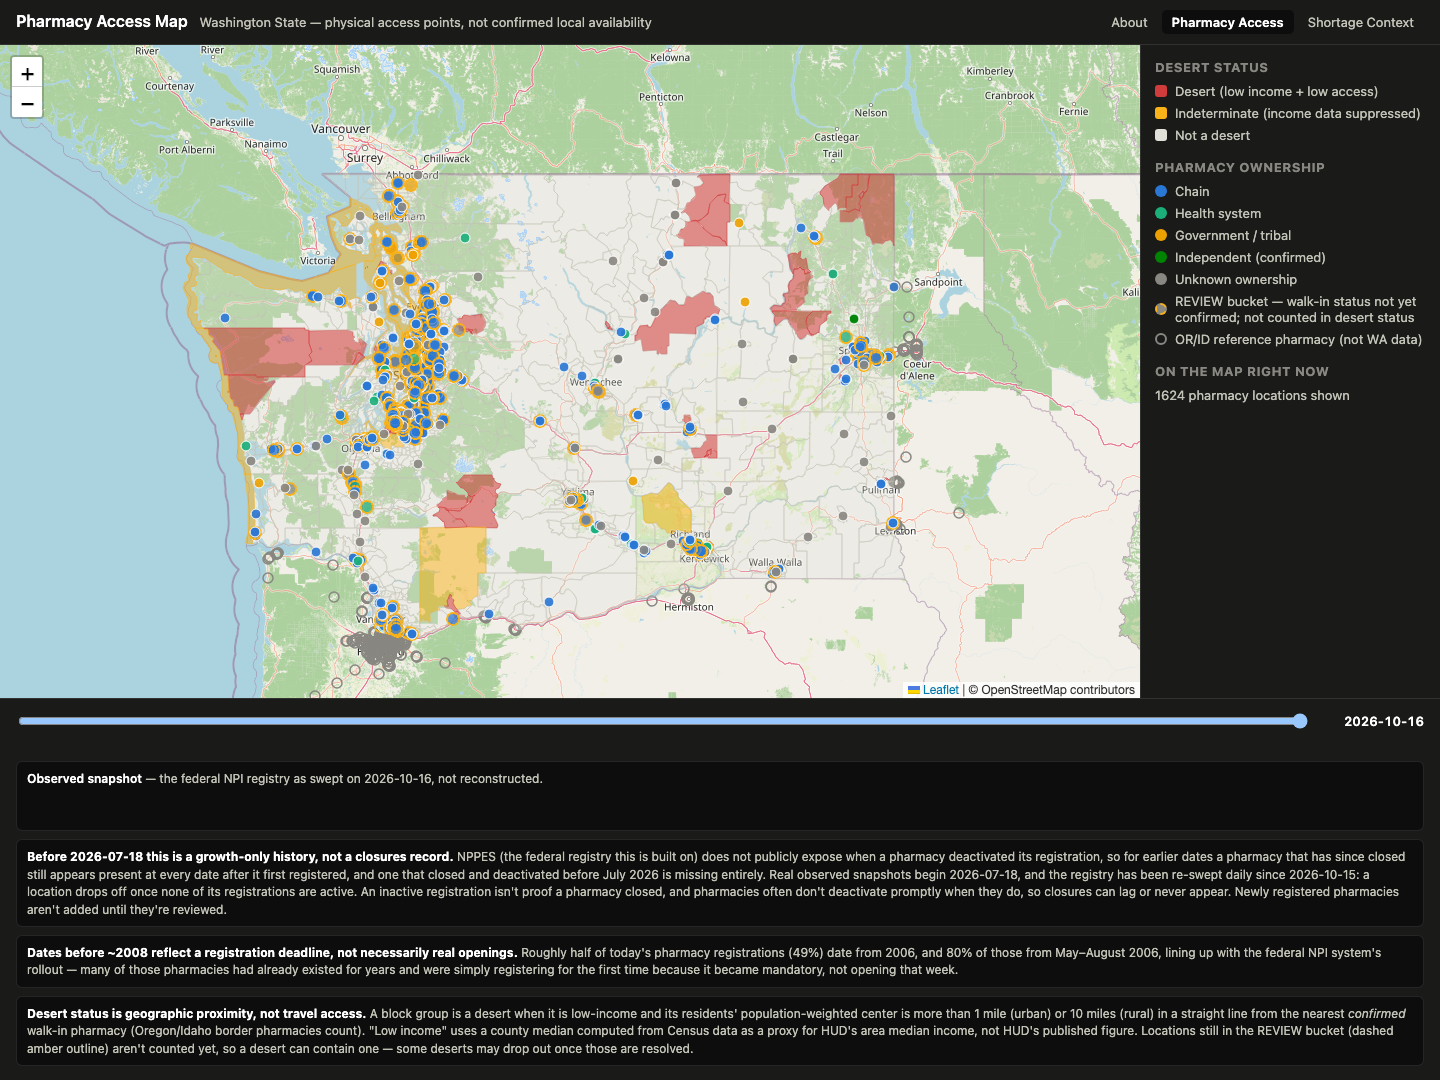
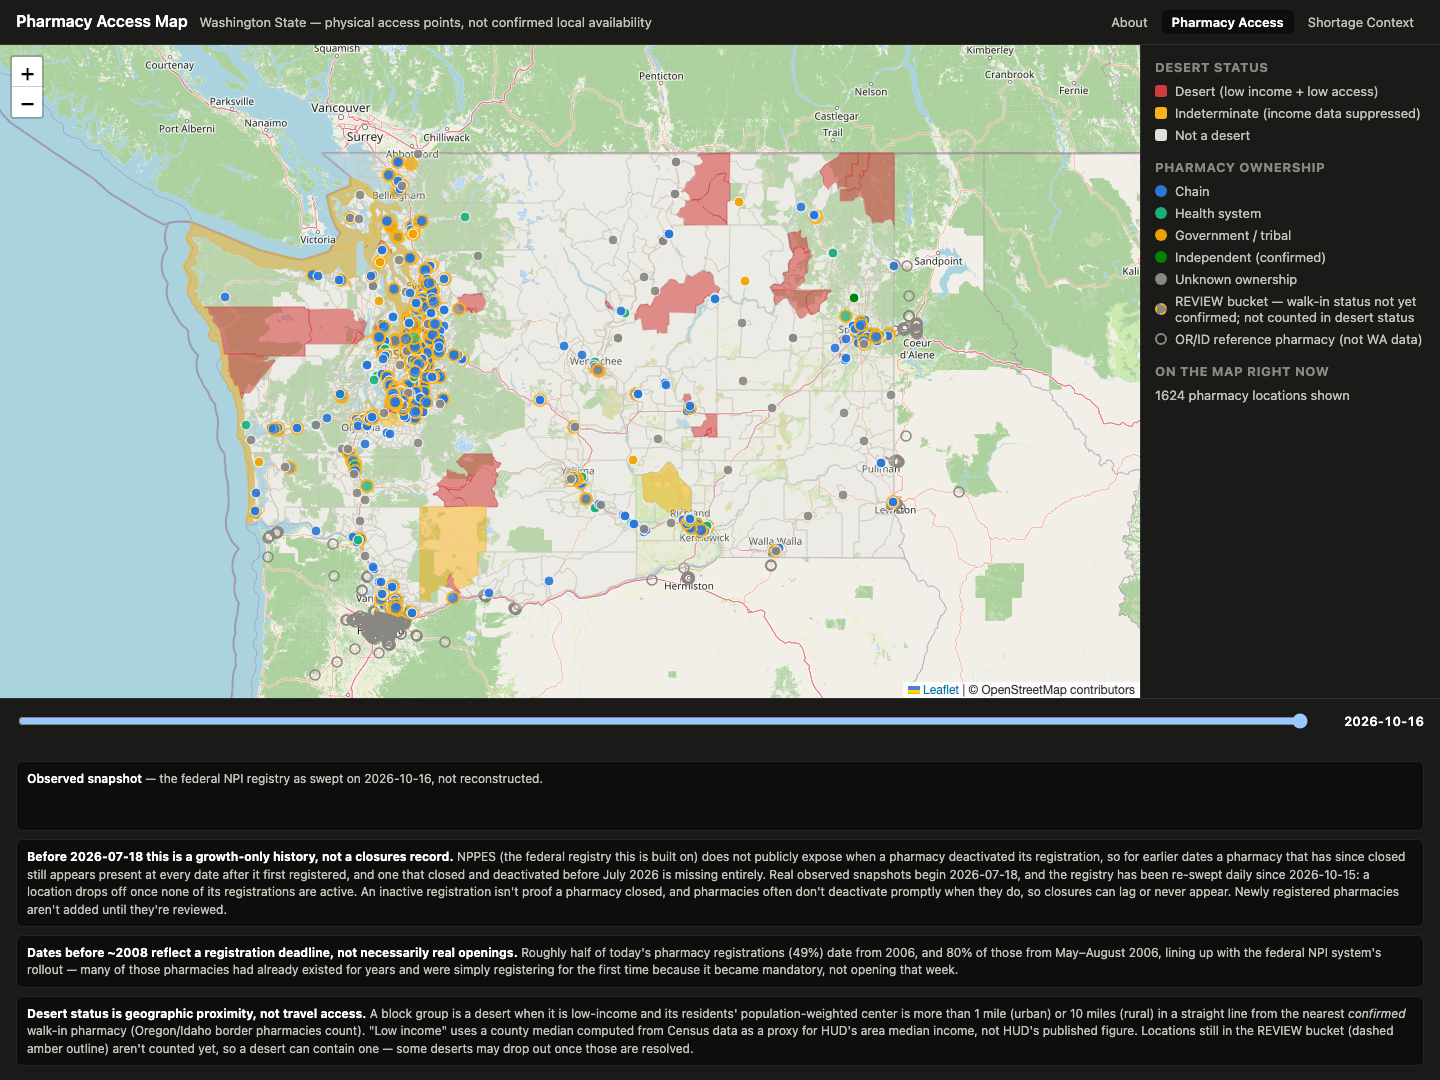
Log the map-size fix and its tests; retake README screenshots
DECISIONS.md: before/after measurements on the live site (Leaflet vs
container size, centering, popups near the bottom edge) at desktop and
phone width, real-drag slider re-test, and the open item closed. The
README screenshots are retaken now that the maps are centered (the old
ones were 38px / 21px low).

diff --git a/DECISIONS.md b/DECISIONS.md
@@ -72,10 +72,6 @@ the owner decisions below.
 - **Owner decision pending:** whether to rewrite git history to purge
   individuals' names, which are still in the initial commit. See the
   Day 11 fixes entry for what it involves. The current tree has none.
-- **Leaflet map size can go stale after load** (up to 77px too tall at
-  1440x1080), so the map's center sits slightly low. Fix: a
-  `ResizeObserver` on `#map` calling `map.invalidateSize()`. See the
-  final-polish entry.
 - **The desert count is a range, 176-237 block groups,** until the 474
   REVIEW-bucket pharmacies are resolved (LIMITATIONS.md).
 - **11 newly registered pharmacies** are in `npi_review_queue` and not on
@@ -2090,3 +2086,54 @@ finishes laying out.
   counts below the map change the container's height.
 - **Fix (later):** a `ResizeObserver` on `#map` calling
   `map.invalidateSize()`.
+
+---
+
+## 2026-10-16 — Map size kept in sync with its container (ResizeObserver); open item closed
+
+**Change (`6185f9c`, webapp only):** both map scripts replace their three
+one-off `invalidateSize()` calls (on window load, after 150ms, on window
+resize) with `new ResizeObserver(() => map.invalidateSize()).observe(#map)`.
+Nothing else changed.
+
+**Why:** Leaflet measures the map once at init. The slider, notes and
+counts below the map fill in later and change the container's height,
+so Leaflet's size went stale.
+
+**Tested** in headless Chrome against the live site, before and after
+the deploy, with an identical script:
+- Leaflet's height vs the container's;
+- the distance between the intended center (47.4, -120.6) and the middle
+  of the visible map;
+- a popup opened with its anchor 40 and 10 px above, and 20 and 50 px
+  below, the visible bottom edge.
+
+| | Before (desktop 1440x1080) | After (desktop) | Phone 375x812, before and after |
+|---|---|---|---|
+| Leaflet vs container height | 904 vs 827 (shortage), 695 vs 653 (pharmacy) | equal | equal |
+| Off-center | 39 px / 22 px | 1 px | 1 px |
+| Popup anchored 20 / 50 px below the visible edge | no auto-pan; clipped 7 / 37 px (shortage), 7 / 17 px (pharmacy) | auto-pans 31-32 / 61 px; clipped 0 | clipped 0 |
+| Popup anchored inside the visible area | fully visible | fully visible | fully visible |
+
+At phone width the stacked layout gives the map a fixed 55vh height, so
+it never had the mismatch.
+
+**Why the test ran headless:** the in-app browser pane was hidden while
+testing and rendered no frames (0 animation frames in 500ms).
+`ResizeObserver` only fires as part of rendering a frame, so a hidden
+pane can't exercise it. Headless Chrome renders frames.
+
+**Sliders re-tested** on the live site, both pages, desktop and phone, with
+real mouse drags sent through Chrome's input pipeline
+(`Input.dispatchMouseEvent`): full range, partial and back. Every check
+agreed: readout = note/summary date, count = markers/items = a fresh API
+response, 0 of 5,311 colors mismatched.
+- **Console:** the only message in every run is a 404 for `/favicon.ico`,
+  which the site doesn't have. It predates this change, and Chrome doesn't
+  show favicon failures in the DevTools console. Not changed; this commit
+  was scoped to the resize fix.
+
+**README screenshots retaken:** the old ones were captured with the
+stale size. Aligning old against new shows the maps were 38px
+(shortage) and 21px (pharmacy) low, matching the measured off-center
+error.
